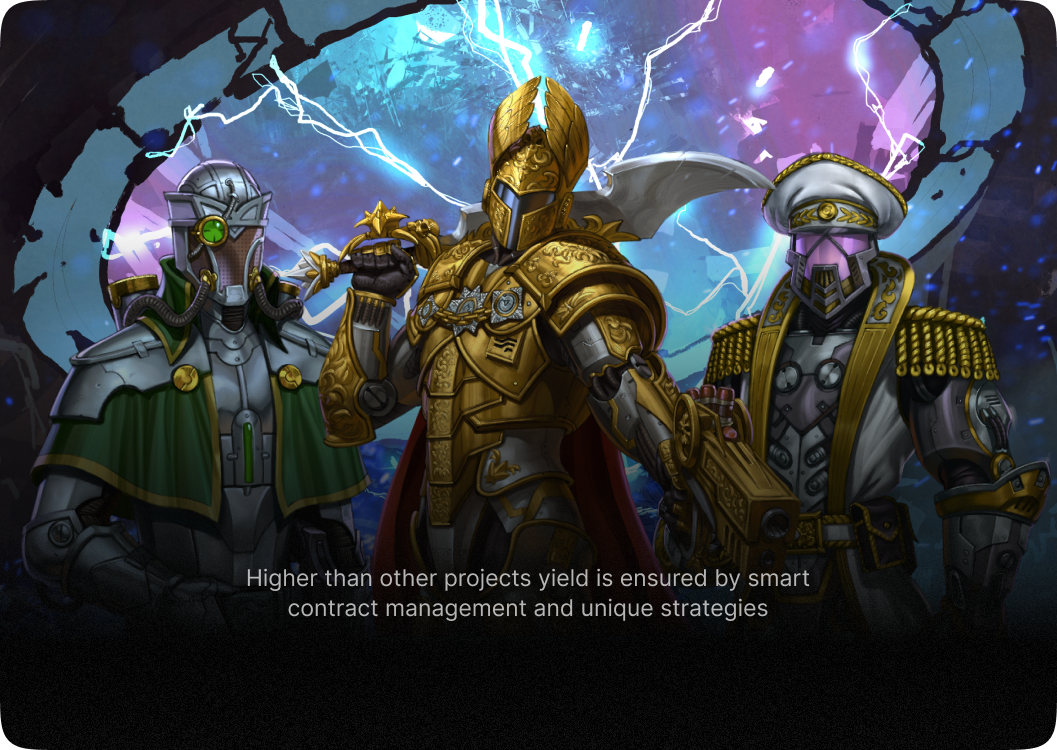
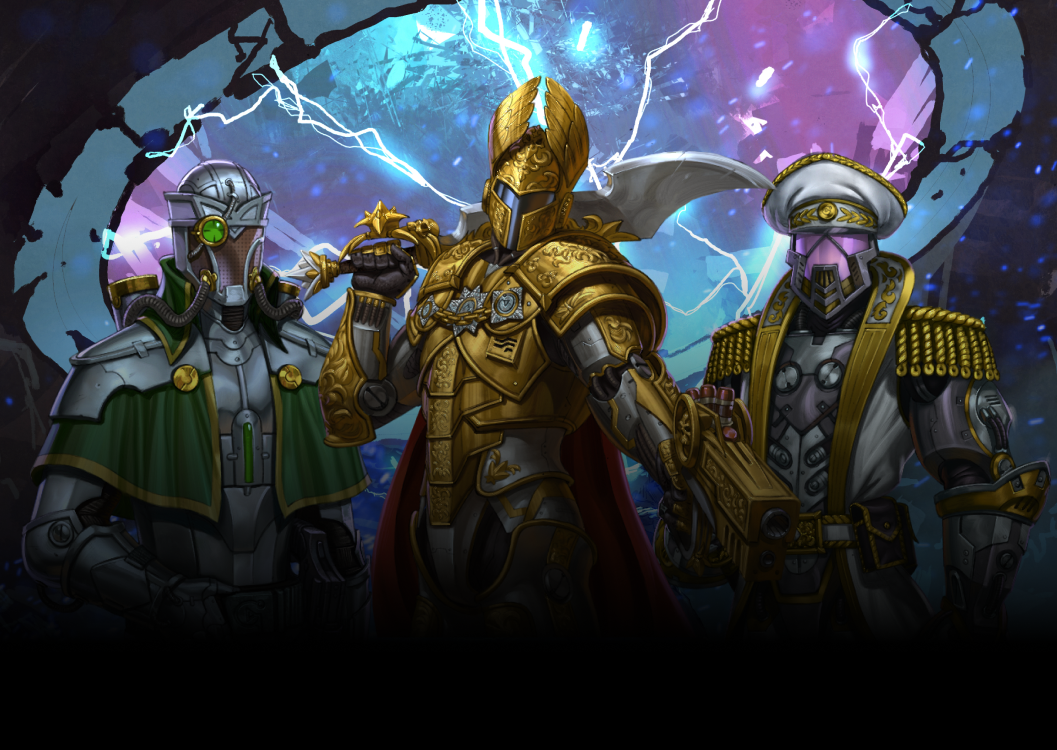
Fixed title

diff --git a/src/views/Home/components/HomeGreetings.tsx b/src/views/Home/components/HomeGreetings.tsx
@@ -695,8 +695,7 @@ const CaptainsSection = styled(Section)`
   
   @media screen and (max-width: 500px) {
     margin-top: 130px;
-    width: 300px;
-    height: 585px;
+    height: 625px;
   }
 `
 
@@ -803,12 +802,20 @@ const LowerShip = styled(StyledShip)<{ showVideo?: boolean }>`
   }
 `
 
-const CaptainsTitle = styled.div`
+const InfoText = styled.div`
   position: absolute;
-  width: 680px;
-  bottom: 200px;
+  bottom: 150px;
   left: 0;
   right: 0;
+  width: 100%;
+  display: flex;
+  flex-direction: column;
+  align-items: center;
+`
+
+const CaptainsTitle = styled.div`
+  // position: absolute;
+  width: 680px;
   margin: 0 auto;
   color: #FFFFFF;
   font-family: Inter;
@@ -845,23 +852,31 @@ const CaptainsTitle = styled.div`
 `
 
 const CaptainsDescription = styled.div`
-  width: 319px;
   height: 66px;
   color: #FFFFFF;
-  font-size: 16px;
-  font-weight: 500;
-  line-height: 22px;
+  font-size: 23px;
+  font-weight: 400;
+  line-height: 26px;
   text-align: center;
   opacity: 0.7;
+  padding: 0 20%;
+  margin-top: 24px;
+  
+  @media screen and (max-width: 1250px) {
+    font-size: 20px;
+  }
   
   @media screen and (max-width: 800px) {
     margin-top: 24px;
+    font-size: 18px;
+    padding: 0;
   }
   
   @media screen and (max-width: 500px) {
     width: 82%;
     font-size: 12px;
     line-height: 18px;
+    margin-bottom: 20px;
   }
 `
 
@@ -1601,9 +1616,14 @@ const HomeGreetings: React.FC = () => {
               <StyledYouTube videoId="kUpv-AYXyew" showVideo={showVideo} ref={videoRef} id="videoPlayer"/>
               <Star style={{ 'right': '100px', 'top': '-75px' }} src={grey_13x14} alt="grey_13x14" />
               <UpperShip src={ship_1} alt='ship_1' showVideo={showVideo} />
-              <CaptainsTitle>
-                Revolutionary gamified yield farming
-              </CaptainsTitle>
+              <InfoText>
+                <CaptainsTitle>
+                  Revolutionary gamified yield farming
+                </CaptainsTitle>
+                <CaptainsDescription>
+                  (A)steroid Mining is being created as a community-driven project that will allow users to add game mechanics, generate asteroids for farming, and even entire worlds in the Gravis Finance Universe.
+                </CaptainsDescription>
+              </InfoText>
               <VideoButton type="danger"
                 // href="https://www.youtube.com/watch?v=kUpv-AYXyew"
                            showVideo={showVideo}
@@ -1635,7 +1655,7 @@ const HomeGreetings: React.FC = () => {
                 <span>Watch video</span>
               </VideoButton>
               <CaptainsDescription>
-                Higher than other projects yield is ensured by smart contract management and unique strategies
+                (A)steroid Mining is being created as a community-driven project that will allow users to add game mechanics, generate asteroids for farming, and even entire worlds in the Gravis Finance Universe.
               </CaptainsDescription>
               <CaptainsButtons>
                 <StyledButton type="default"
